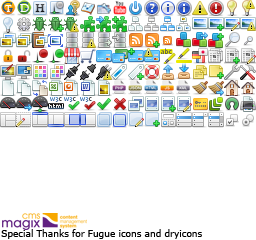
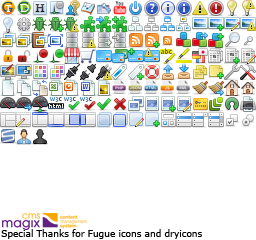
* Ajout de la variable pour la gestion des images de plugin côté admin
git-svn-id: http://magixdev.indefero.net/svn/magixdev/magixcms/trunk@341 9511e328-2ecd-428d-8f03-cf8620a26fe1

Changed region(s): [[0.0, 0.525, 0.1875, 0.6125]]

diff --git a/framework/css/globalcss.css b/framework/css/globalcss.css
@@ -134,7 +134,8 @@ body,
 }*/
 /*######################### dashboard wuidget UI ########################*/
 .dashboard-widget-h2{padding:0;color:#696969;}
-.column { width:50%;float: left; padding:0; }
+.column { width:50%; float: left;padding:0; /*display:block-inline;*/}
+.dashboard-content .column .dashboard-widget{margin:5px;}
 .dashboard-widget { margin: 0 0.4em 0.4em 0; }
 .dashboard-widget-header { margin: 0.3em; padding-top:5px;padding-bottom: 5px; padding-left: 0.2em; }
 .dashboard-widget-header .ui-icon { float: right; }
@@ -549,7 +550,7 @@ input.ui-button { padding: .1em 1em; }
 .magix-icon-open-source { background-position: -224px -96px; }
 .magix-icon-print { background-position: -240px -96px; }
 /* positioning column 7*/
-.magix-icon-layout{ background-position: 0 -96px; }
+.magix-icon-layout{ background-position: 0 -112px; }
 .magix-icon-layout-pencil{ background-position: -16px -112px; }
 .magix-icon-layout-header{ background-position: -32px -112px; }
 .magix-icon-layout-footer{ background-position: -48px -112px; }
@@ -565,6 +566,10 @@ input.ui-button { padding: .1em 1em; }
 .magix-icon-ui-list-box{ background-position: -208px -112px; }
 .magix-icon-ui-check-boxes { background-position: -224px -112px; }
 .magix-icon-ui-radio-buttons { background-position: -240px -112px; }
+/* positioning column 7*/
+.magix-icon-subversion{ background-position: 0 -128px; }
+.magix-icon-person{ background-position: -16px -128px; }
+.magix-icon-person-shape{ background-position: -32px -128px; }
 /**
  * ############################## Utility class
  * 

diff --git a/framework/css/globalforms.css b/framework/css/globalforms.css
@@ -41,6 +41,28 @@ select { width: 220px; }
 .table-widget-plugin td a:hover{}
 .table-widget-plugin th.small-icon,.table-widget-plugin td.small-icon{width:20px;}
 .table-widget-plugin td.medium-cell{min-width:100px;}
+
+/*Table plugin*/
+.table-plugin-author {font-size:11px;margin: 5px; border-collapse: collapse; min-width: 350px;max-width:90%;}
+.table-plugin-author th,.table-plugin-author td{border: 1px solid #404040;text-align: left;}
+.table-plugin-author th {padding: .1em 4px;}
+.table-plugin-author td{padding: .1em 4px;}
+/*.table-plugin-author tr td:first-child{width:1%;}*/
+.table-plugin-author td a{text-decoration:underline;}
+.table-plugin-author td a:hover{}
+.table-plugin-author th.small-icon,.table-plugin-author td.small-icon{width:20px;}
+.table-plugin-author td.medium-cell{min-width:100px;}
+
+/*Table plugin info*/
+.table-plugin-info {font-size:11px;margin: 5px; border-collapse: collapse; min-width: 350px;max-width:90%;}
+.table-plugin-info th,.table-plugin-info td{border: 1px solid #404040;text-align: left;}
+.table-plugin-info th {padding: .1em 4px;}
+.table-plugin-info td{padding: .1em 4px;}
+.table-plugin-info tr td:first-child{background-color:#404040;}
+.table-plugin-info td a{text-decoration:underline;}
+.table-plugin-info td a:hover{}
+.table-plugin-info th.small-icon,.table-plugin-info td.small-icon{width:20px;}
+.table-plugin-info td.medium-cell{min-width:100px;}
 /**
 * HACK safari and chrome
 */

diff --git a/app/backend/controller/plugins.php b/app/backend/controller/plugins.php
@@ -228,6 +228,12 @@ class backend_controller_plugins{
 		return $this->directory_plugins().$this->getplugin().DIRECTORY_SEPARATOR;
 	}
 	/**
+	 * Retourne le chemin du dossier du plugin courant
+	 */
+	public function pluginPath(){
+		return self::PATHPLUGINS.'/'.$this->getplugin();
+	}
+	/**
 	 * Retourne la langue courante
 	 * @return string
 	 * @access public 
@@ -327,6 +333,7 @@ class backend_controller_plugins{
 			try{
 				backend_config_smarty::getInstance()->assign('pluginName',$this->pluginName());
 				backend_config_smarty::getInstance()->assign('pluginUrl',$this->pluginUrl());
+				backend_config_smarty::getInstance()->assign('pluginPath',$this->pluginPath());
 				$this->load_plugin();
 			}catch (Exception $e){
 			magixglobal_model_system::magixlog('An error has occured :',$e);

diff --git a/app/extends/backend/function.widget_users.php b/app/extends/backend/function.widget_users.php
@@ -53,7 +53,7 @@ function smarty_function_widget_users($params, $template){
 							<tr>
 							<th><span style="float:left;" class="ui-icon ui-icon-person"></span></th>
 							<th><span style="float:left;" class="ui-icon ui-icon-mail-closed"></span></th>
-							<th><span style="float:left;" class="ui-icon ui-icon-key"></span></th>
+							<th><span style="float:left;" class="magix-icon magix-icon-perms"></span></th>
 							<th><span style="float:left;" class="ui-icon ui-icon-pencil"></span></th>
 							<th><span style="float:left;" class="ui-icon ui-icon-close"></span></th>
 							</tr>
